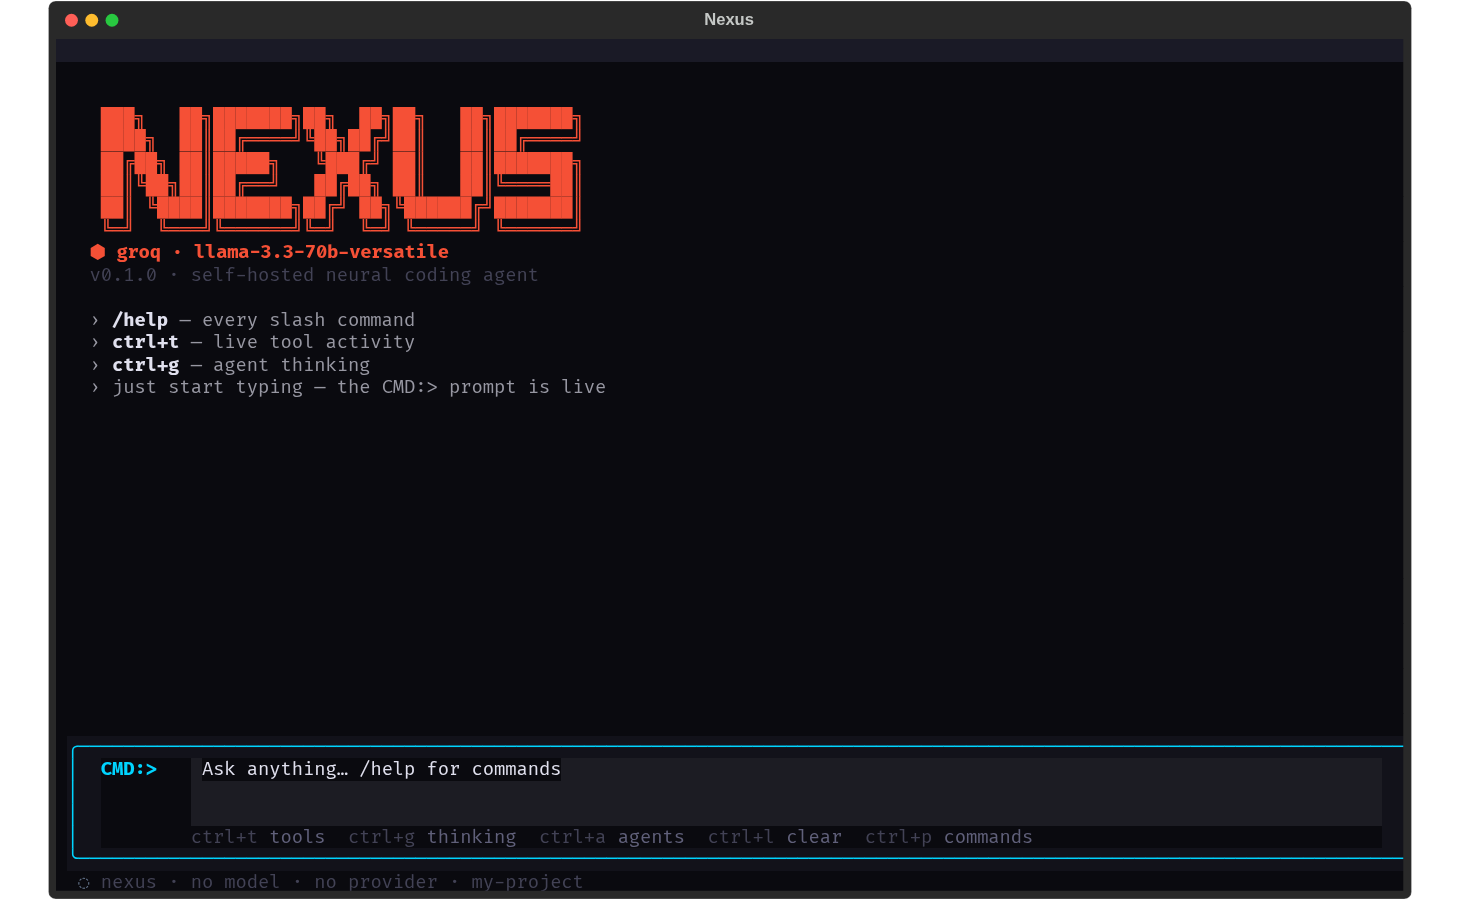
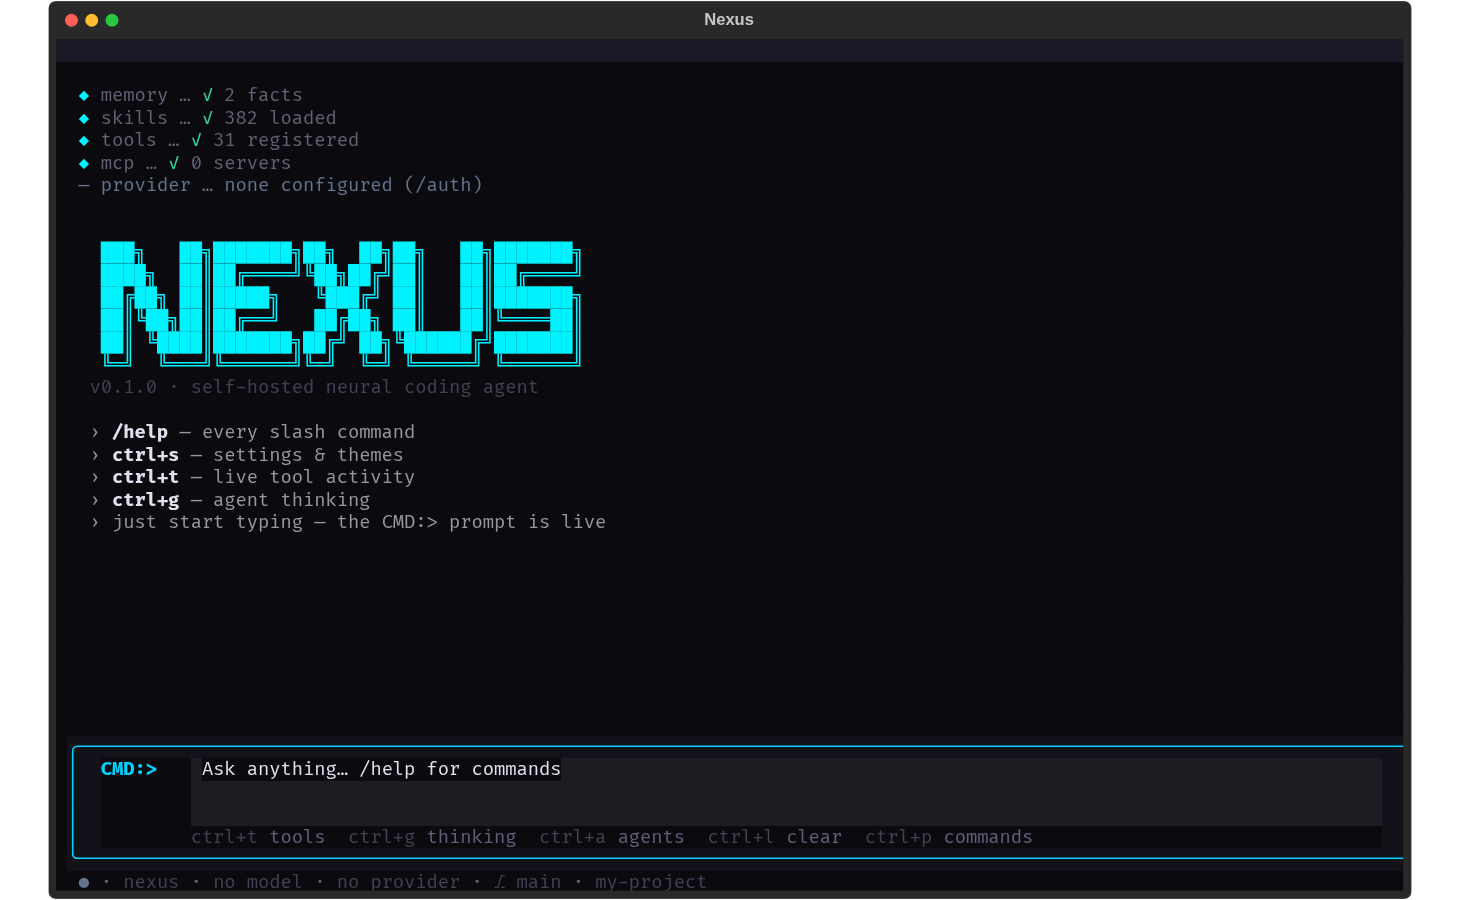
docs: README matches shipped reality + boot/theme screenshots + refactor log
- Key features: skill pre-loading, plugin auto-discovery + skip-installed
  deps, context compaction, themes/settings, security-hardened tools,
  BM25 memory
- Architecture: honest per-provider circuit breaker + auto-discovered
  plugin system wording
- Screenshots: tui-boot.png (agentic subsystem checklist, cyan),
  tui-synthwave.png (theme) in 3-column table
- NEXUS_REFACTOR: session 4 log (compaction/BM25/purge/CB/SSE +
  integration fixes)

diff --git a/README.md b/README.md
@@ -27,8 +27,13 @@
 *   **`/init` Project Context:** One command scans your project (git, languages, manifests, build commands) and generates a `NEXUS.md` context file injected into every turn — like Claude Code's `/init`, works with zero LLM configured.
 *   **Neural OS Core:** Built on a "Governor" pattern that manages the lifecycle of memory, tools, and orchestration subsystems.
 *   **Real Memory Layer:** Facts, session history, and recall are consulted on every turn — not just stored.
-*   **382 Bundled Skills + 92-Server MCP Marketplace:** `nexus skill search`, `nexus mcp catalog/search/install` — a curated library ported from the community, available offline out of the box.
-*   **Atmospheric TUI:** Claude Code-class transcript with timestamps, collapsible tool-call cards, live unified-diff rendering for every edit, streaming responses with a blinking cursor, and live Thinking/Tools/Agents panels.
+*   **382 Bundled Skills + 92-Server MCP Marketplace:** `nexus skill search`, `nexus mcp catalog/search/install` — a curated library ported from the community, available offline out of the box. Relevant skills are **pre-loaded automatically** before every turn (`⚡ N skills loaded` in the TUI).
+*   **Plugin Auto-Discovery:** Drop a `.py` file into `~/.nexus/plugins/` and its tools register into the agent automatically — broken plugins fail isolated, never crashing boot. `nexus discover` maps your device (platform, installed packages, PATH tools) and **skips already-present dependencies instead of re-downloading them**.
+*   **Context Compaction:** Long sessions auto-compact at 60% of the context window — older turns summarized into one system message, recent context kept verbatim. `/compact` and `/context` give manual control.
+*   **Themes & User Settings:** 5 built-in themes (neural-cyan, synthwave, matrix, amber-crt, mono) with a live-apply `/settings` modal (ctrl+s) persisted to `~/.nexus/settings.json`. Provider-aware identity: the NEXUS logo, badges and status bar tint with the connected provider's brand color.
+*   **Security-Hardened Tools:** GitTool executes argv-only with argument validation (no shell injection), a real denylist blocks destructive commands behind an approval gate, and the dashboard requires a token for all mutating routes.
+*   **Context-Aware Memory:** Real BM25 lexical recall (not keyword LIKE) over a persistent SQLite store with recency boosting, plus automatic preference capture — "always/never/prefer" statements become facts.
+*   **Atmospheric TUI:** Claude Code-class transcript with timestamps, collapsible tool-call cards, live unified-diff rendering for every edit, streaming responses with a blinking cursor, agentic boot checklist, and live Thinking/Tools/Agents panels.
 *   **GIA Web Dashboard:** A dark, ChatGPT/LibreChat-style chat interface in the browser, with real token streaming, wired to the same agent core as the CLI.
 *   **Offline-First & Local:** Designed for Termux/Mobile, Nexus is optimized for low-bandwidth, high-latency environments.
 
@@ -39,8 +44,8 @@
 Nexus operates on a multi-layer Neural OS architecture:
 1.  **Orchestrator:** The primary agent lead that delegates tasks based on task complexity, with memory recall/persistence wired into every turn.
 2.  **Vector-Mesh Memory:** A persistent SQLite-backed memory store providing long-term project context.
-3.  **Resilience Layer:** A circuit-breaker and doctor module that monitors sub-agent health in real-time.
-4.  **Plugin System:** A drop-in architecture for extending core OS capabilities.
+3.  **Resilience Layer:** A per-provider circuit breaker (3 consecutive failures → 120s cooldown → half-open probe) composes with free-tier rotation; `nexus doctor` reports system health.
+4.  **Plugin System:** Auto-discovered tool plugins (`~/.nexus/plugins/`) plus the bundled 92-server MCP marketplace register into the same ToolRegistry the agent uses.
 5.  **GIA Dashboard:** A Flask-based web layer exposing the same agent core over HTTP/SSE, for a browser-based chat experience.
 
 ---
@@ -104,9 +109,9 @@ nexus skill search python   # search the bundled skill library
 
 ## 📸 Screenshots
 
-| Boot | Termux (90×30) |
-|---|---|
-| ![Nexus boot card](assets/screenshots/tui-boot.png) | ![Nexus on Termux](assets/screenshots/tui-termux.png) |
+| Boot (neural-cyan) | Synthwave theme | Termux (90×30) |
+|---|---|---|
+| ![Nexus boot checklist and welcome card](assets/screenshots/tui-boot.png) | ![Nexus synthwave theme](assets/screenshots/tui-synthwave.png) | ![Nexus on Termux](assets/screenshots/tui-termux.png) |
 
 ---
 

diff --git a/NEXUS_REFACTOR.md b/NEXUS_REFACTOR.md
@@ -69,3 +69,14 @@ Remaining known debt (see NEXUS_RECON_FINDINGS.md M3–M6): MCP handshake swappe
 3. **Agentic order of service (C):** `BootChecklist` widget prints the subsystem checklist one line per ~150ms above the welcome card — `◆ memory … ✓ 3 facts`, `◆ skills … ✓ 382 loaded`, `◆ tools … ✓ 24 registered`, `◆ mcp … ✓ N servers` (from `~/.nexus/mcp-servers.json`), `◆ provider … ✓ groq` or `— none configured (/auth)`; failures render `✗ <reason>` in amber and never crash boot; `nexus.discovery.boot_summary()` overrides counts when the parallel module ships (ImportError-safe seam). Assistant messages carry the provenance row `✦ Nexus · groq · llama-3.3-70b · 3.2s` (users/system stay compact). Running tool cards animate spinner glyphs (braille/dots/pulse per settings) off a shared ChatPanel timer; streaming cursor is settings-gated; ThinkingPanel header shows `◆ working…` while steps run. StatusBar adds cached `⎇ <branch>` (`git rev-parse`, 2s timeout, `—` outside repo) + `#<short session id>` and fits one line at 90 cols (flexible tail parts truncate: message → cwd → session → branch → model last).
 
 Capture: `scripts/capture_tui.py --theme NAME [--provider NAME MODEL]` (old positional flags kept) → `download/tui_default.svg`, `tui_synthwave.svg` (90x30), `tui_matrix.svg` (groq brand override) — all >40k bytes with theme accent verified in the SVG. Follow-ups: styles.css chrome background stays neural-dark (token layer only, per design); model-name truncation in the status bar is the last-resort fit; welcome-card expanded tool-card state resets on theme rerender.
+
+## 2026-11-19 Session 4 — Feature Completion Wave
+
+**627 tests passing** (up from 592). Net −382 lines while adding features.
+
+1. **Compaction:** orchestrator helpers (`estimate_context_tokens`, `kept_suffix`, `summarize_messages_deterministic`, `COMPACT_*` constants) + `context_usage/should_compact/compact_context/_summarize_messages`; REPL `/compact [focus]` + `/context` (mini bar), auto-trigger at turn start. Integration fixes: `kept_suffix` rewritten to keep last 8 with dangling-tool trim (the anchored-at-user-turn version kept only 1 message); compaction test aligned to the keep-8 contract.
+2. **Strong memory (M5):** `SimpleKeywordBackend` now real per-field BM25 (content 1.0 + tags 1.5, k1=1.5, b=0.75, +1.5 phrase bonus, recency boost `1+0.25·exp(-age/14d)`), same public interface; FTS5 external-content sync fixed (invalid `'reindex'` SQL → documented rowid-mirror insert; FTS delete added to `_delete_sync`); preference auto-capture (always/never/prefer → deduped Fact, source "auto", confidence 0.8).
+3. **M6 purge:** `nexus/orchestrator/` (−1,357) and `nexus/resilience/` (−317) deleted after zero-importer greps; dead `decomposer`/`executor` imports, init lines, `_execute_tool_callback`/`_execute_llm_callback` and `run_complex_task` removed from `agent/orchestrator.py` (wave-2 agent's grep missed the import — fixed in integration); voice kept (REPL imports it).
+4. **Circuit breaker:** per-provider in `providers/manager.py` (3 consecutive failures → 120s open → half-open single probe; composes with 429 rotation via `_rotation_candidates`); `breaker_state(name)` public.
+5. **SSE MCP transport:** stdlib http.client SSE client (endpoint discovery via urljoin, id-matched JSON-RPC, `NEXUS_MCP_TIMEOUT`, one stale-endpoint retry, graceful ToolResults); shares tools/list + tools/call mapping with stdio; hermetic threading http.server tests (fixture no-endpoint case fixed in integration).
+6. **Docs/screenshots:** README features + architecture rewritten to match shipped reality (honesty sweep: circuit-breaker claim now describes the real per-provider breaker); new `tui-boot.png` (agentic boot checklist) + `tui-synthwave.png` screenshots; handoff in download/NEXUS_SESSION3_HANDOFF.md.
